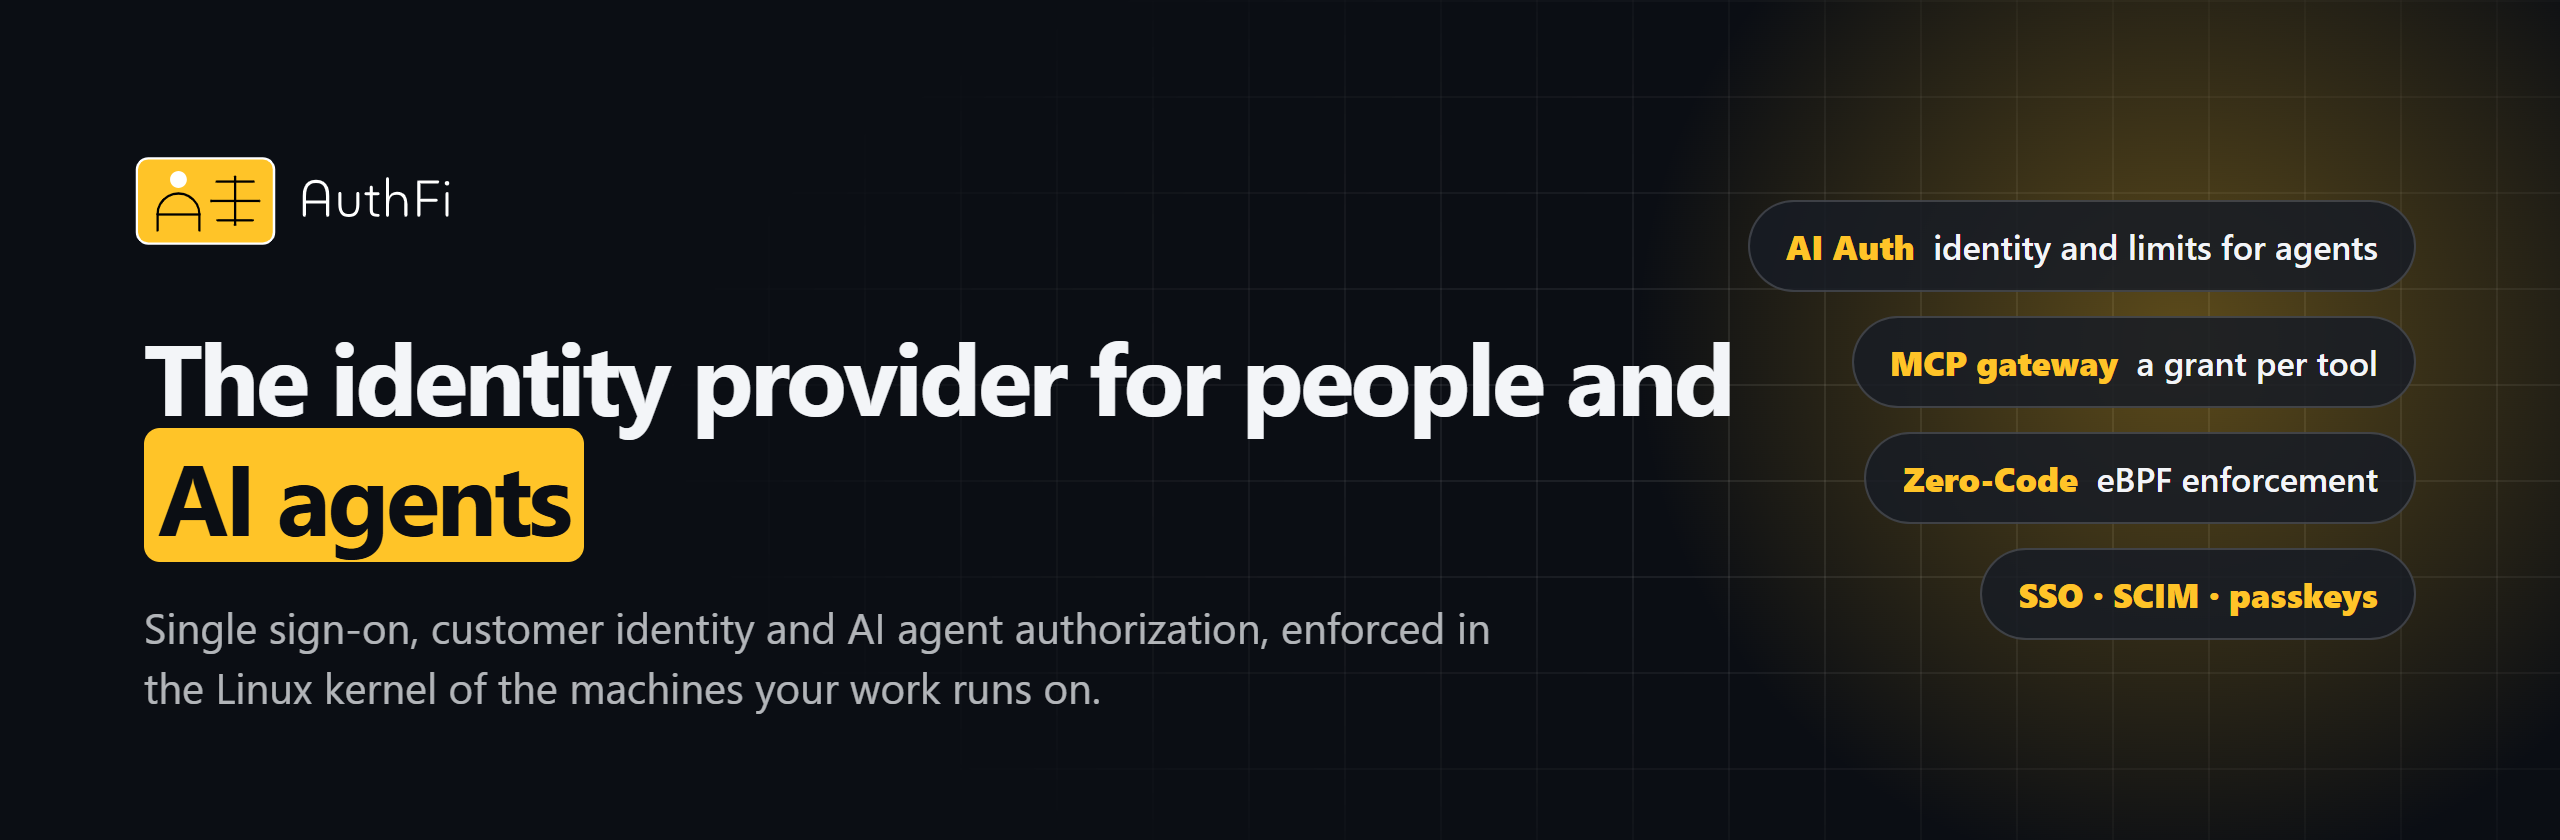
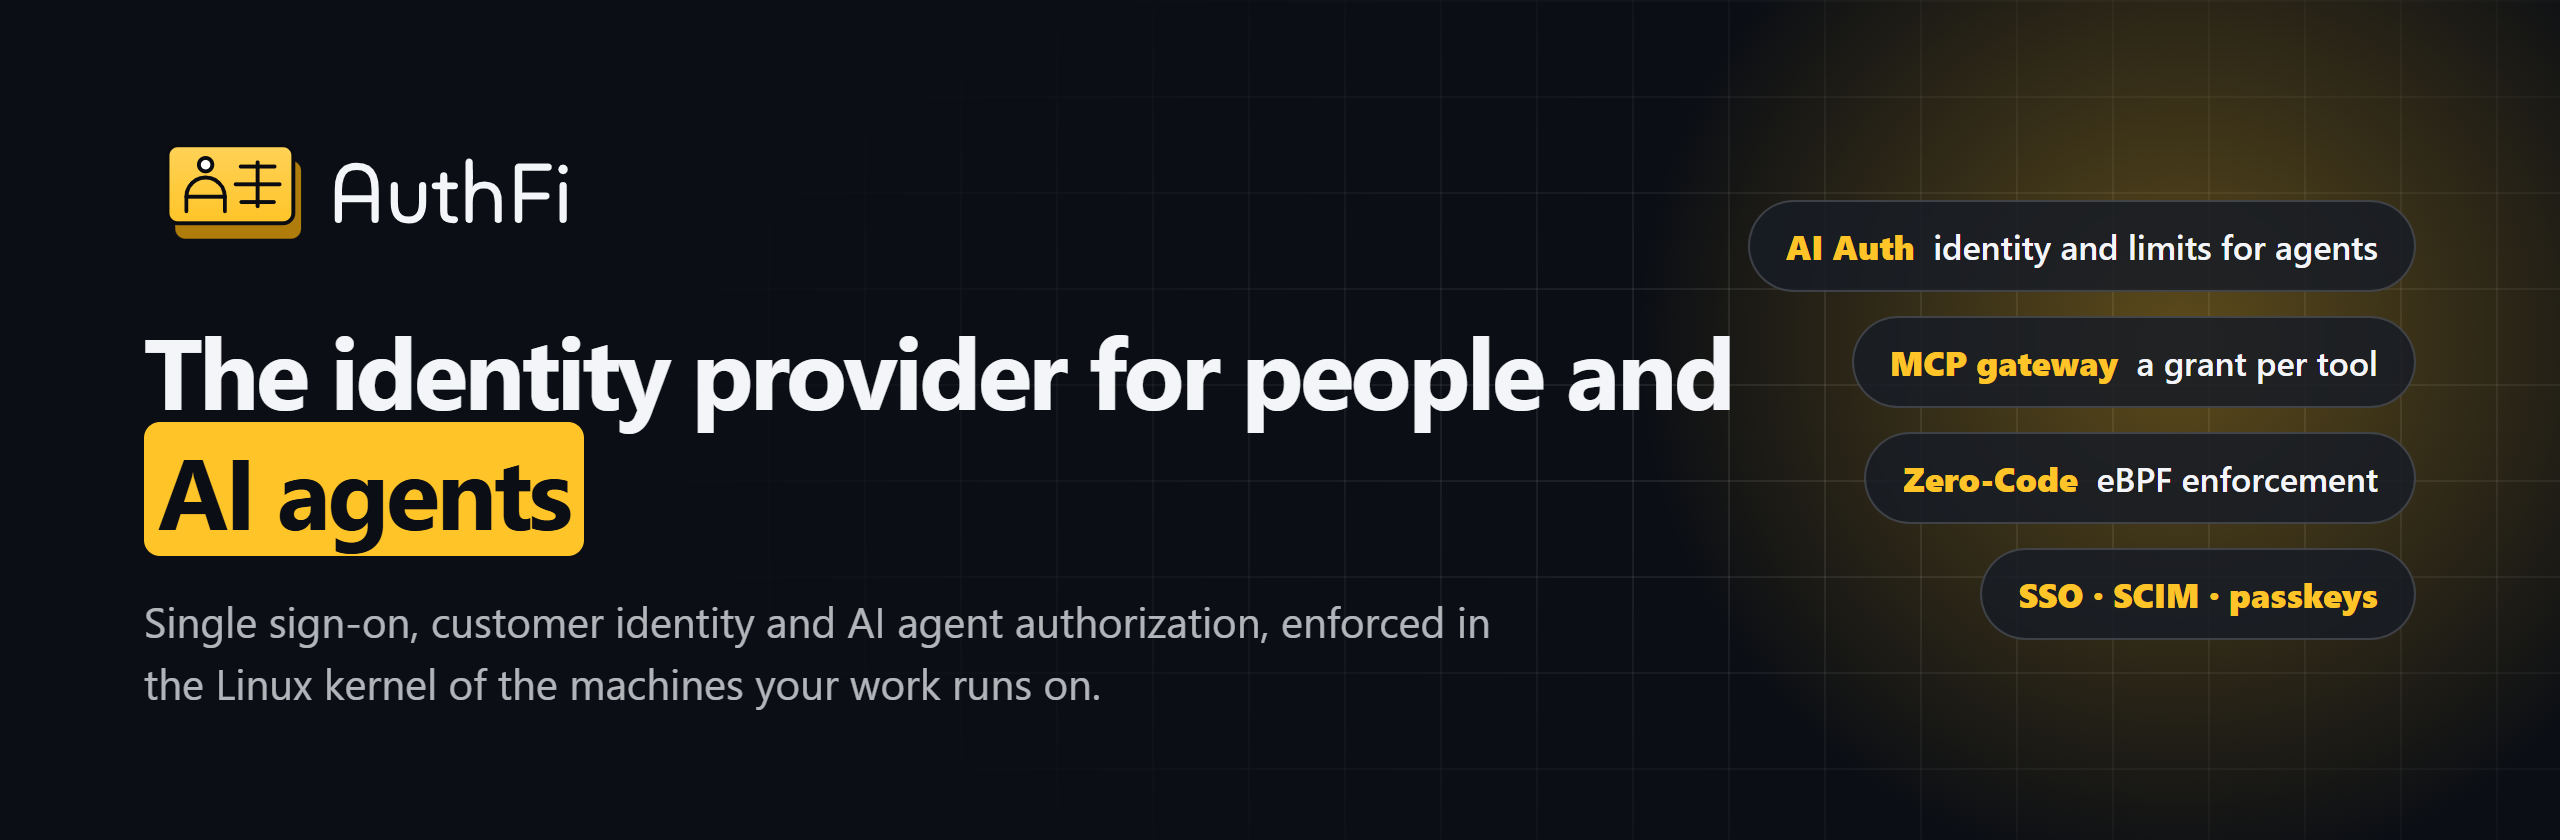
Explain each part of AuthFI with a diagram, and list the SDKs
The console screenshots were unreadable at the width a profile gives them, and
three of the link badges failed to load. Each product area is now one picture
that says what it does, the logo is the mark the website draws, and the SDKs,
the Terraform provider and the agent skills have a section of their own.

diff --git a/profile/README.md b/profile/README.md
@@ -8,71 +8,79 @@
 </p>
 
 <p align="center">
-  <a href="https://authfi.io"><img alt="Website" src="https://img.shields.io/badge/Website-authfi.io-ffc428?style=for-the-badge&labelColor=0b0e14"></a>
-  <a href="https://authfi.io/docs/"><img alt="Documentation" src="https://img.shields.io/badge/Docs-Read-ffc428?style=for-the-badge&labelColor=0b0e14"></a>
-  <a href="https://authfi.io/pricing"><img alt="Pricing" src="https://img.shields.io/badge/Pricing-From_%24999-ffc428?style=for-the-badge&labelColor=0b0e14"></a>
-  <a href="https://github.com/orgs/authfi/discussions"><img alt="Discussions" src="https://img.shields.io/badge/Community-Discussions-ffc428?style=for-the-badge&labelColor=0b0e14"></a>
-  <a href="https://status.authfi.io"><img alt="Status" src="https://img.shields.io/badge/Status-Live-2ea043?style=for-the-badge&labelColor=0b0e14"></a>
+  <a href="https://authfi.io"><b>Website</b></a> &nbsp;·&nbsp;
+  <a href="https://authfi.io/docs/"><b>Documentation</b></a> &nbsp;·&nbsp;
+  <a href="https://authfi.io/pricing"><b>Pricing</b></a> &nbsp;·&nbsp;
+  <a href="https://authfi.io/compare"><b>Compare</b></a> &nbsp;·&nbsp;
+  <a href="https://github.com/orgs/authfi/discussions"><b>Discussions</b></a>
 </p>
 
 <h3 align="center">Sign in your people. Give every AI agent an identity, limits and an off switch.<br>Enforce it where the work runs.</h3>
 
 <br>
 
-## What AuthFI does
+<p align="center">
+  <a href="https://authfi.io/ai-auth">
+    <picture>
+      <source media="(prefers-color-scheme: dark)" srcset="https://raw.githubusercontent.com/authfi/.github/main/profile/assets/ai-auth-dark.png">
+      <img src="https://raw.githubusercontent.com/authfi/.github/main/profile/assets/ai-auth-light.png" alt="AI Auth: every AI agent gets an identity, limits and an off switch. The agent holds its own key, permissions carry limits, and a sensitive action waits for a named person to approve it." width="100%">
+    </picture>
+  </a>
+</p>
 
-<table>
-  <tr>
-    <td width="50%" valign="top">
-      <h3>AI Auth</h3>
-      <p>Authentication and authorization for AI agents, built on OAuth. Each agent holds its own key, has permissions with limits, and waits for a person when your rules say so.</p>
-      <a href="https://authfi.io/ai-auth">
-        <picture>
-          <source media="(prefers-color-scheme: dark)" srcset="https://raw.githubusercontent.com/authfi/.github/main/profile/assets/agents-dark.webp">
-          <img src="https://raw.githubusercontent.com/authfi/.github/main/profile/assets/agents.webp" alt="The AI agents screen in the AuthFI console" width="100%">
-        </picture>
-      </a>
-      <p><a href="https://authfi.io/ai-auth"><b>AI Auth →</b></a></p>
-    </td>
-    <td width="50%" valign="top">
-      <h3>MCP gateway</h3>
-      <p>One endpoint for every tool your agents call. A grant per tool, arguments checked on each call, and the tool's own credential never reaches the agent.</p>
-      <a href="https://authfi.io/solutions/tool-gateway">
-        <picture>
-          <source media="(prefers-color-scheme: dark)" srcset="https://raw.githubusercontent.com/authfi/.github/main/profile/assets/mcp-tools-dark.webp">
-          <img src="https://raw.githubusercontent.com/authfi/.github/main/profile/assets/mcp-tools.webp" alt="The MCP gateway's tools screen in the AuthFI console" width="100%">
-        </picture>
-      </a>
-      <p><a href="https://authfi.io/solutions/tool-gateway"><b>MCP gateway →</b></a></p>
-    </td>
-  </tr>
-  <tr>
-    <td width="50%" valign="top">
-      <h3>Zero-Code</h3>
-      <p>Sign-in and access rules in front of services on Kubernetes, enforced with eBPF in the Linux kernel. Nothing is added to your services.</p>
-      <a href="https://authfi.io/zero-code">
-        <picture>
-          <source media="(prefers-color-scheme: dark)" srcset="https://raw.githubusercontent.com/authfi/.github/main/profile/assets/cluster-dark.webp">
-          <img src="https://raw.githubusercontent.com/authfi/.github/main/profile/assets/cluster.webp" alt="A Kubernetes cluster in the AuthFI console" width="100%">
-        </picture>
-      </a>
-      <p><a href="https://authfi.io/zero-code"><b>Zero-Code →</b></a></p>
-    </td>
-    <td width="50%" valign="top">
-      <h3>Security</h3>
-      <p>See what was denied and where, which rules are in force, how a cluster stands against a framework, who is signed in, and one record of it all.</p>
-      <a href="https://authfi.io/security">
-        <picture>
-          <source media="(prefers-color-scheme: dark)" srcset="https://raw.githubusercontent.com/authfi/.github/main/profile/assets/signals-dark.webp">
-          <img src="https://raw.githubusercontent.com/authfi/.github/main/profile/assets/signals.webp" alt="The Signals screen in the AuthFI console" width="100%">
-        </picture>
-      </a>
-      <p><a href="https://authfi.io/security"><b>Security →</b></a></p>
-    </td>
-  </tr>
-</table>
+<p align="center">
+  <a href="https://authfi.io/solutions/tool-gateway">
+    <picture>
+      <source media="(prefers-color-scheme: dark)" srcset="https://raw.githubusercontent.com/authfi/.github/main/profile/assets/mcp-gateway-dark.png">
+      <img src="https://raw.githubusercontent.com/authfi/.github/main/profile/assets/mcp-gateway-light.png" alt="MCP gateway: one endpoint for every tool your agents call. A grant per tool, arguments checked on every call, and the tool's own credential stays in the gateway." width="100%">
+    </picture>
+  </a>
+</p>
 
-And the identity provider underneath it all: **single sign-on** over OpenID Connect and SAML 2.0, **SCIM** provisioning, **passkeys** and multi-factor authentication, customer identity under your own brand and domain, and sign-in to Windows, macOS and Linux devices.
+<p align="center">
+  <a href="https://authfi.io/zero-code">
+    <picture>
+      <source media="(prefers-color-scheme: dark)" srcset="https://raw.githubusercontent.com/authfi/.github/main/profile/assets/zero-code-dark.png">
+      <img src="https://raw.githubusercontent.com/authfi/.github/main/profile/assets/zero-code-light.png" alt="Zero-Code: sign-in and enforcement with no change to your code. One install on a cluster, enforced with eBPF in the Linux kernel." width="100%">
+    </picture>
+  </a>
+</p>
+
+<p align="center">
+  <a href="https://authfi.io/platform">
+    <picture>
+      <source media="(prefers-color-scheme: dark)" srcset="https://raw.githubusercontent.com/authfi/.github/main/profile/assets/identity-dark.png">
+      <img src="https://raw.githubusercontent.com/authfi/.github/main/profile/assets/identity-light.png" alt="Identity provider: one identity provider for staff, customers and devices. Single sign-on over OpenID Connect and SAML 2.0 with SCIM, passkeys and multi-factor authentication on every plan, hosted sign-in under your brand." width="100%">
+    </picture>
+  </a>
+</p>
+
+## Build with AuthFI
+
+<p align="center">
+  <a href="https://authfi.io/docs/">
+    <picture>
+      <source media="(prefers-color-scheme: dark)" srcset="https://raw.githubusercontent.com/authfi/.github/main/profile/assets/developers-dark.png">
+      <img src="https://raw.githubusercontent.com/authfi/.github/main/profile/assets/developers-light.png" alt="SDKs in seven languages, a Terraform provider and skills for coding agents." width="100%">
+    </picture>
+  </a>
+</p>
+
+**SDKs.** Each one signs people in, verifies tokens and calls the AuthFI APIs, in the idiom of its language.
+
+| Language | Repository |
+| --- | --- |
+| Node.js | [authfi/authfi-nodejs-sdk](https://github.com/authfi/authfi-nodejs-sdk) |
+| Python | [authfi/authfi-python-sdk](https://github.com/authfi/authfi-python-sdk) |
+| Go | [authfi/authfi-go-sdk](https://github.com/authfi/authfi-go-sdk) |
+| Java | [authfi/authfi-java-sdk](https://github.com/authfi/authfi-java-sdk) |
+| .NET | [authfi/authfi-dotnet-sdk](https://github.com/authfi/authfi-dotnet-sdk) |
+| PHP | [authfi/authfi-php-sdk](https://github.com/authfi/authfi-php-sdk) |
+| Ruby | [authfi/authfi-ruby-sdk](https://github.com/authfi/authfi-ruby-sdk) |
+
+**Infrastructure as code.** [terraform-provider-authfi](https://github.com/authfi/terraform-provider-authfi) manages applications, connections, roles and policies from Terraform.
+
+**Skills for coding agents.** [authfi-skills](https://github.com/authfi/authfi-skills) teaches an AI coding agent how to integrate AuthFI: written in the Open Knowledge Format, so any agent that reads Markdown can use them.
 
 ## Start in ten minutes
 
